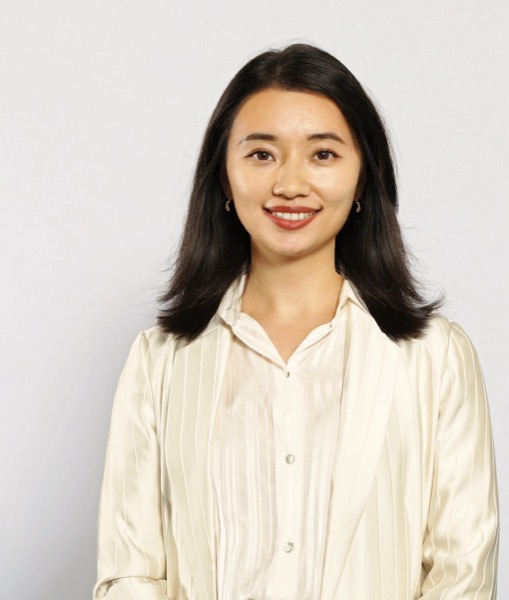
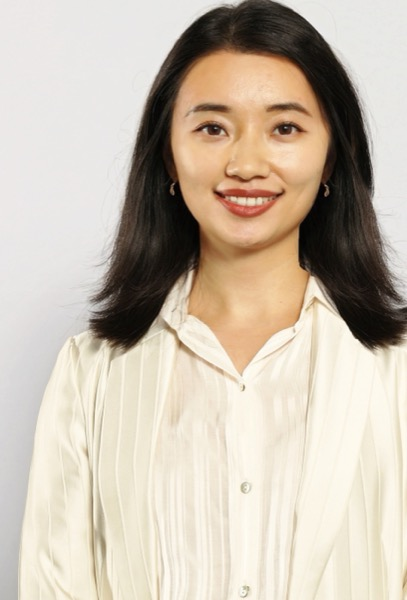
Profile: vertical oval with face centered, improved crop

diff --git a/_sass/_base.scss b/_sass/_base.scss
@@ -9,10 +9,11 @@ html {
 
 // Vertical oval profile image
 .profile img {
-  border-radius: 50% / 40%;
-  object-fit: cover;
+  border-radius: 50%;
   aspect-ratio: 3 / 4;
   width: 100%;
+  object-fit: cover;
+  object-position: center 20%;
 }
 
 // Blue publication title links
